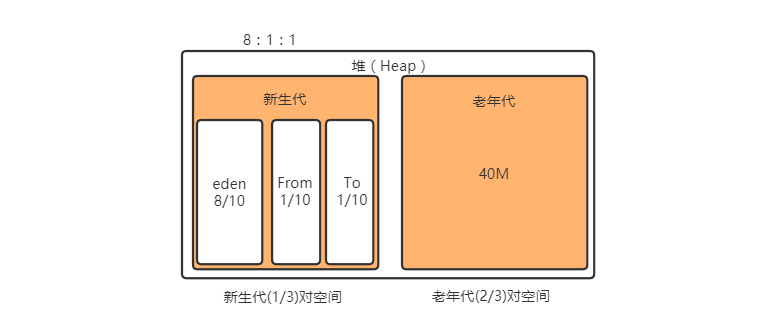
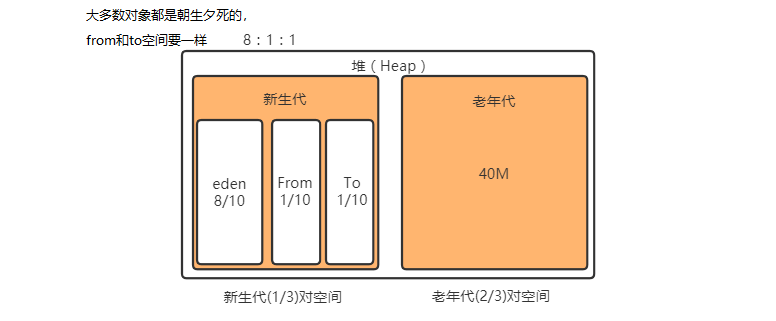
no message

Changed region(s): [[0.0928, 0.0935, 0.2784, 0.1558], [0.0928, 0.0312, 0.3093, 0.0623]]

diff --git a/Java/JVM/JVM 基础.md b/Java/JVM/JVM 基础.md
@@ -6,13 +6,73 @@ JVM 是运行在操作系统之上的，它与硬件没有直接的交互。
 
 ![image-20200903204633755](JVM 基础.assets/image-20200903204633755.png)
 
-# 1 类文件到虚拟机(类加载机制)
+# 1 源码到类文件
+
+## 1.1 The relation of JDK/JRE/JVM
+
+Reference -> Developer Guides -> 定位到 https://docs.oracle.com/javase/8/docs/index.html
+
+![image-20210206130931886](JVM 基础.assets/image-20210206130931886.png)
+
+## 1.2 编译过程
+
+> .java -> javac -> .class
+>
+> Person.java -> 词法分析器 -> tokens流 -> 语法分析器 -> 语法树/抽象语法树 -> 语义分析器 -> 注解抽象语法树 -> 字节码生成器 -> Person.class文件
+
+## 1.3 类文件(Class文件)
+
+官网 The class File Format https://docs.oracle.com/javase/specs/jvms/se8/html/jvms-4.html
+
+```java
+ClassFile {
+    u4             magic;   // 魔数与class文件版本
+    u2             minor_version;
+    u2             major_version;
+    u2             constant_pool_count;  // 常量池
+    cp_info        constant_pool[constant_pool_count-1];
+    u2             access_flags;		// 访问标志
+    u2             this_class;		// 类索引、父类索引、接口索引
+    u2             super_class;
+    u2             interfaces_count;
+    u2             interfaces[interfaces_count];
+    u2             fields_count;		// 字段表集合
+    field_info     fields[fields_count];
+    u2             methods_count;		// 方法表集合
+    method_info    methods[methods_count];
+    u2             attributes_count;		// 属性表集合
+    attribute_info attributes[attributes_count];
+}
+```
+
+```markdown
+# vi -b Test.class
+# :%!xxd
+# magic(魔数) 标识类文件格式的幻数，它的值为 0xCAFEBABE
+	cafe babe
+# minor_version, major_version 
+	0000 0034 对应10进制的52，代表JDK 8中的一个版本
+# constant_pool_count
+	001d 对应十进制29，代表常量池中29个常量
+00000000: cafe babe 0000 0034 001d 0a00 0600 0f09  .......4........
+00000010: 0010 0011 0800 120a 0013 0014 0700 1507  ................
+00000020: 0016 0100 063c 696e 6974 3e01 0003 2829  .....<init>...()
+00000030: 5601 0004 436f 6465 0100 0f4c 696e 654e  V...Code...LineN
+00000040: 756d 6265 7254 6162 6c65 0100 046d 6169  umberTable...mai
+...
+```
+
+<img src="JVM 基础.assets/image-20210206132402676.png" alt="image-20210206132402676" style="zoom:50%;" />
+
+# 2 类文件到虚拟机(类加载机制)
 
 > 使用和卸载不算是类加载过程中的阶段，只是画完整了一下
 
 ![image-20210204190027334](JVM 基础.assets/image-20210204190027334.png)
 
-`装载(Load)` 查找和导入 Class 文件
+## 2.1 装载(Load)
+
+查找和导入 Class 文件
 
 > (1)通过一个类的全限定名获取定义此类的`二进制字节流 `
 >
@@ -20,9 +80,19 @@ JVM 是运行在操作系统之上的，它与硬件没有直接的交互。
 >
 > (3)在 Java 堆中生成一个代表这个类的 java.lang.Class 对象，作为对方法区中这些数据的访问入口
 
-`初始化(Initialize)` 对类的静态变量，静态代码块执行初始化操作
+## 2.2 链接(Link)
 
-# 2 类加载器 ClassLoader
+> 验证(Verify) 保证被加载类的正确性
+>
+> 准备(Prepare) 为类的静态变量分配内存，并将其初始化为默认值
+>
+> 解析(Resolve) 把类中的符号引用转换为直接引用，String str  = XXX符号 --> String str = 真实的引用地址
+
+## 2.3 初始化(Initialize)
+
+ 对类的静态变量，静态代码块执行初始化操作
+
+# 3 类加载器 ClassLoader
 
 > 在装载(Load)阶段，其中第(1)步：通过类的全限定名获取其定义的二进制字节流，需要借助类装载器完成，顾名思义，就是用来装载 Class 文件的。 
 
@@ -32,7 +102,7 @@ JVM 是运行在操作系统之上的，它与硬件没有直接的交互。
 
 ![image-20200903211224015](JVM 基础.assets/image-20200903211224015.png)
 
-## 2.1 虚拟机自带的加载器
+## 3.1 虚拟机自带的加载器
 
 ``启动类加载器（Bootstrap）`` C++
 
@@ -66,7 +136,7 @@ public class MyObject {
 
 > sun.misc.Launcher 它是一个java虚拟机的入口应用
 
-## 2.2 双亲委派机制
+## 3.2 双亲委派机制
 
 ```java
 package java.lang;
@@ -88,25 +158,13 @@ public class String {
 
 它防止了恶意代码去干涉善意的代码，这是通过为不同的类加载器装入的类提供了不同的命名空间来实现的，命名空间互相独立。
 
-# 3 运行时数据区(Run-Time Data Areas)
+# 4 运行时数据区(Run-Time Data Areas)
 
 > 在装载阶段的第(2)(3)步可以发现有运行时数据，堆，方法区等名词。
 >
 > 类文件被类装载器装载进来之后，类中的内容(比如变量，常量，方法，对象等这些数据得要有个去处，也就是要存储起来，存储的位置肯定是在 JVM 中有对应的空间)。
 
-.class 字节码文件
-
-```
-魔数与class文件版本
-常量池
-访问标志
-类索引、父类索引、接口索引
-字段表集合
-方法表集合
-属性表集合
-```
-
-## 3.1 Method Area 方法区
+## 4.1 方法区 Method Area
 
 各线程共享的运行时内存区域，在虚拟机启动时创建。
 
@@ -121,7 +179,7 @@ public class String {
 > But
 > 实例变量存在堆内存中，和方法区无关
 
-## 3.2 堆 Heap
+## 4.2 堆 Heap
 
 ![1599194756798](JVM 基础.assets/1599194756798.png)
 
@@ -147,11 +205,13 @@ Java堆是Java虚拟机所管理内存中最大的一块，在虚拟机启动时
 
 幸存区有两个： 0区（Survivor 0 space）和1区（Survivor 1 space）。
 
-一般情况下，新创建的对象都会被分配到 Eden 区，一些特殊的大的对象会直接分配到 Old 区。
+> 一般情况下，新创建的对象都会被分配到 Eden 区，一些特殊的大的对象会直接分配到 Old 区。
+>
+> HotSpot 虚拟机提供了 `-XX:PretenureSizeThreshold` 参数，指定大于该设置值的对象直接在老年代分配，PretenureSizeThreshold 参数只对 Serial 和 ParNew 两款收集器有效，默认 PretenureSizeThreshold=  4m。
 
 当伊甸园的空间用完时，程序又需要创建对象，JVM的垃圾回收器将对伊甸园区进行``垃圾回收(Minor GC)``，将伊甸园区中的不再被其他对象所引用的对象进行销毁。然后将伊甸园中的剩余对象移动到幸存 0区。若幸存 0区也满了，再对该区进行垃圾回收，然后移动到 1 区。那如果1 区也满了呢？再移动到养老区。若养老区也满了，那么这个时候将产生``MajorGC（FullGC）``，进行养老区的内存清理。
 
-### 3.2.1 Minor GC 过程
+### 4.2.1 Minor GC 过程
 
 复制->清空->互换
 
@@ -171,7 +231,7 @@ Java 堆从 GC 的角度还可以细分为：新生代（Eden区、From Survivor
 
 最后，SurvivorTo和SurvivorFrom互换，原SurvivorTo成为下一次GC时的SurvivorFrom区。部分对象会在From和To区域中复制来复制去,如此交换15次(由JVM参数``MaxTenuringThreshold``决定,这个参数默认是15),最终如果还是存活,就存入到老年代
 
-### 3.2.2 永久代
+### 4.2.2 永久代
 
 实际而言，方法区（Method Area）和堆一样，是各个线程共享的内存区域，它用于存储虚拟机加载的：类信息+普通常量+静态常量+编译器编译后的代码等等，虽然JVM规范将方法区描述为堆的一个逻辑部分，但它却还有一个别名叫做Non-Heap(非堆)，目的就是要和堆分开。
 
@@ -181,7 +241,7 @@ Java 堆从 GC 的角度还可以细分为：新生代（Eden区、From Survivor
 
 永久区(java7之前有)，永久存储区是一个常驻内存区域( 元空间与永久代不同其内存空间直接使用的是本地内存 )，用于存放JDK自身所携带的 Class,Interface 的元数据，也就是说它存储的是运行环境必须的类信息，被装载进此区域的数据是不会被垃圾回收器回收掉的，关闭 JVM 才会释放此区域所占用的内存。
 
-## 3.3 栈 Stack
+## 4.3 栈 Stack
 
 > 栈管运行，堆管存储
 >
@@ -193,7 +253,7 @@ Java 堆从 GC 的角度还可以细分为：新生代（Eden区、From Survivor
 
 ``8种基本类型的变量 + 对象的引用变量 + 实例方法``都是在函数的栈内存中分配。
 
-### 3.3.1 栈运行原理
+### 4.3.1 栈运行原理
 
 栈中的数据都是以`栈帧（Stack Frame）`的格式存在，栈帧是一个内存区块，是一个数据集，是一个有关方法(Method)和运行期数据的数据集。每一个被线程执行的方法，为该栈中的栈帧，即每个方法对应一个栈帧。
 
@@ -209,7 +269,7 @@ B 方法又调用了 C 方法，于是产生栈帧 F3 也被压入栈
 
 遵循 “先进后出/后进先出” 原则。
 
-``每个方法执行的同时都会创建一个栈帧，用于存储局部变量表、操作数栈、动态链接、方法出口等信息``，每一个方法从调用直至执行完毕的过程，就对应着一个栈帧在虚拟机中入栈到出栈的过程。``栈的大小和具体JVM的实现有关，通常在256K~756K之间,与等于1Mb左右``。
+``每个方法执行的同时都会创建一个栈帧，用于存储局部变量表、操作数栈、动态链接、方法出口等信息``，每一个方法从调用直至执行完毕的过程，就对应着一个栈帧在虚拟机中入栈到出栈的过程。``栈的大小和具体JVM的实现有关，通常在256K~756K之间,约等于1Mb左右``。
 
 ![image-20200903232322908](JVM 基础.assets/image-20200903232322908.png)
 
@@ -219,7 +279,7 @@ B 方法又调用了 C 方法，于是产生栈帧 F3 也被压入栈
 
 每执行一个方法都会产生一个栈帧，保存到栈(后进先出)的顶部，顶部栈就是当前的方法，该方法执行完毕后会自动将此栈帧出栈。
 
-### 3.3.2 栈帧存储什么
+### 4.3.2 栈帧存储什么
 
 栈帧(Java 方法)中主要保存 3 类数据：
 
@@ -231,7 +291,7 @@ B 方法又调用了 C 方法，于是产生栈帧 F3 也被压入栈
 
 `方法返回地址(Return Address)` 当一个方法开始执行后,只有两种方式可以退出，一种是遇到方法返回的字节码指令；一种是遇见异常，并且 这个异常没有在方法体内得到处理
 
-### 3.3.3 堆+栈+方法区的交互关系
+### 4.3.3 堆+栈+方法区的交互关系
 
 ```java
 public class Test {
@@ -255,6 +315,23 @@ public class Test {
 // 5: iload_1
 // 6: istore_2
 // 7: return
+
+public class Test {
+    public static void main(String[] args) {
+        int i = 1;
+        int n = 2;
+        int result = i + n;
+    }
+}
+// 0: iconst_1				将 int 类型常量 1 压入【操作数栈】
+// 1: istore_1				将栈顶 int 类型值保存到【局部变量1】中
+// 2: iconst_2				将 int 类型常量 2 压入【操作数栈】
+// 3: istore_2				将栈顶 int 类型值保存到【局部变量2】中
+// 4: iload_1					从【局部变量1】中装载int类型值入【操作数栈】
+// 5: iload_2					从【局部变量2】中装载int类型值入【操作数栈】
+// 6: iadd						将【操作数栈】中前两个 int 类型的值弹出相加，再将其结果进行入栈
+// 7: istore_3				将栈顶 int 类型值保存到【局部变量3】中
+// 8: return
 ```
 
 ![image-20210205112535091](JVM 基础.assets/image-20210205112535091.png)
@@ -271,7 +348,7 @@ public class Test {
 private static Object obj = new Object();
 ```
 
-## 3.4 本地方法栈 Native Method Stack
+## 4.4 本地方法栈 Native Method Stack
 
 它的具体做法是Native Method Stack中登记native方法，在Execution Engine 执行时加载本地方法库。
 
@@ -300,18 +377,18 @@ public class Thread implements Runnable {
 本地接口的作用是融合不同的编程语言为 Java 所用，它的初衷是融合 C/C++程序，Java 诞生的时候是 C/C++横行的时候，要想立足，必须有调用 C/C++程序，于是就在内存中专门开辟了一块区域处理标记为native的代码，它的具体做法是 Native Method Stack中登记 native方法，在Execution Engine 执行时加载native libraies。
 目前该方法使用的越来越少了，除非是与硬件有关的应用，比如通过Java程序驱动打印机或者Java系统管理生产设备，在企业级应用中已经比较少见。因为现在的异构领域间的通信很发达，比如可以使用 Socket通信，也可以使用Web Service等等，不多做介绍。
 
-## 3.5 程序计数器 Program Counter Register
+## 4.5 程序计数器 Program Counter Register
 
 每个线程都有一个程序计数器(PC 寄存器)，是线程私有的,就是一个指针，指向方法区中的方法字节码（``用来存储指向下一条指令的地址,也即将要执行的指令代码``），由执行引擎读取下一条指令，是一个非常小的内存空间，几乎可以忽略不记。
 这块内存区域很小，``它是当前线程所执行的字节码的行号指示器``，字节码解释器通过改变这个计数器的值来选取下一条需要执行的字节码指令。
 如果执行的是一个Native方法，那这个计数器是空的。
 用以完成分支、循环、跳转、异常处理、线程恢复等基础功能。不会发生内存溢出(OutOfMemory=OOM)错误。
 
-# 4 SOFE和OOM
+# 5 SOFE和OOM
 
 ![1601429347879](JVM 基础.assets/1601429347879.png)
 
-## 4.1 StackOverflowError 栈溢出
+## 5.1 StackOverflowError 栈溢出
 
 ```java
 public class StackOverFlowErrorDemo {
@@ -327,7 +404,7 @@ public class StackOverFlowErrorDemo {
 // 是错误，不是异常
 ```
 
-## 4.2 OutOfMemoryError 内存溢出
+## 5.2 OutOfMemoryError 内存溢出
 
 若老年代执行了Full GC之后发现依然无法进行对象的保存，就会``产生OOM异常“OutOfMemoryError”``。
 
